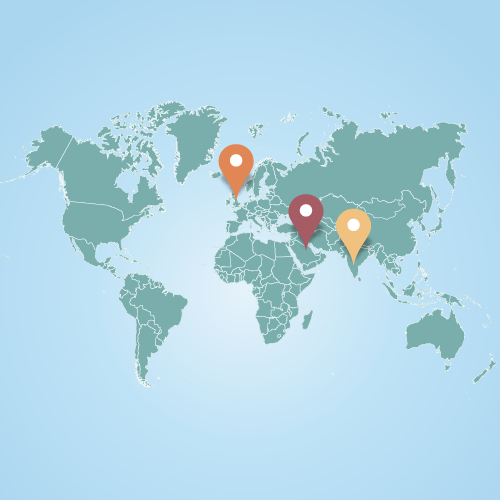
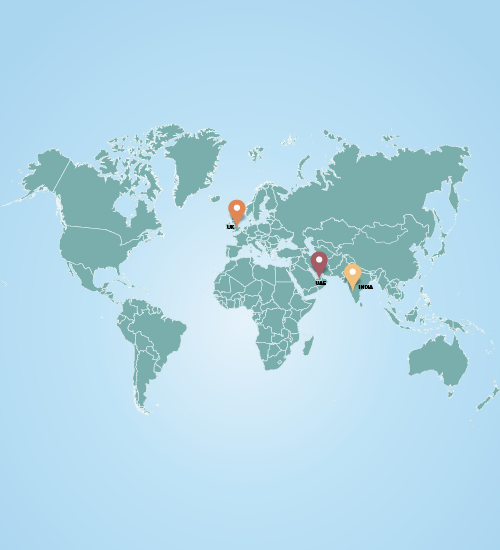
add about at home

diff --git a/src/components/contact-us.jsx b/src/components/contact-us.jsx
@@ -60,7 +60,52 @@ function Contactus() {
           <div>
             <Heading title="Our Locations" />
           </div>
-          <div className="grid grid-cols-1 sm:grid-cols-3 2xl:grid-cols-2 gap-x-5 gap-y-5">
+          <div className="bg-[url('/images/mcubeMap.png')] bg-center bg-cover hidden sm:block">
+            <div className="grid grid-cols-3">
+              <div className="col-span-1">
+                <div className="grid grid-cols-1 gap-y-5">
+                  <div className="bg-white/60 pl-4 w-full py-2 border-l-4 border-secondary my-0 ">
+                    <h3 className="text-primary text-xl font-bold ">Dubai </h3>
+                    <p className="py-2 text-lg font-normal">
+                      MCube Consulting - FZCO
+                      <br /> Building A1, Dubai Digital Park, <br />
+                      Dubai Silicon Oasis, <br />
+                      Dubai - UAE
+                    </p>
+                  </div>
+                  <div className="bg-white/60 pl-4 w-full py-2 border-l-4 border-secondary my-0 ">
+                    <h3 className="text-primary text-xl font-bold ">
+                      United kingdom
+                    </h3>
+                    <p className="py-2 text-lg font-normal">
+                      MCube Consulting Limited
+                      <br /> 141 Fen Street, <br />
+                      Brooklands, <br />
+                      Milton Keynes - UK
+                    </p>
+                  </div>
+                  <div className="bg-white/60 pl-4 w-full py-2 border-l-4 border-secondary my-0 ">
+                    <h3 className="text-primary text-xl font-bold ">India</h3>
+                    <p className="py-2 text-lg font-normal">
+                      Moksha Solutions (Technology Partners)
+                      <br /> Office No. 311, Sai Trade Centre, <br />
+                      Railway Station Road, Aurangabad, <br />
+                      Maharashtra - India
+                    </p>
+                  </div>
+                </div>
+              </div>
+              <div></div>
+            </div>
+          </div>
+          <div className="sm:hidden grid grid-cols-1  gap-x-5 gap-y-5">
+            <div className=" ">
+              <img
+                src="/images/mcubeMap.png"
+                alt=""
+                className="w-full h-auto 2xl:h-auto sm:h-auto"
+              />
+            </div>
             <div className="grid grid-cols-1 gap-y-5">
               <div className="bg-[#eee] pl-4 w-full py-2 border-l-4 border-secondary my-0 ">
                 <h3 className="text-primary text-xl font-bold ">Dubai </h3>
@@ -91,13 +136,6 @@ function Contactus() {
                   Maharashtra - India
                 </p>
               </div>
-            </div>
-            <div className="col-span-2 2xl:col-span-1">
-              <img
-                src="/images/mcubeMap.png"
-                alt=""
-                className="w-full 2xl:h-[500px] sm:h-[600px]"
-              />
             </div>
           </div>
         </div>

diff --git a/src/components/Home/shortabout.jsx b/src/components/Home/shortabout.jsx
@@ -14,10 +14,10 @@ function Shortabout() {
       <div className="pt-20  sm:pt-0  2xl:pt-0">
         <div className="custom-container">
           <Heading title="About Us" />
-          <div className="grid grid-cols-1 lg:grid-cols-2 sm:py-5 sm:pt-5">
+          {/* <div className="grid grid-cols-1 lg:grid-cols-2 sm:py-5 sm:pt-5">
             <SubHeadingLeft title="We Believe in Resource Efficiency" />
-          </div>
-          <div className="grid grid-cols-1 lg:grid-cols-2 sm:gap-x-10 py-5 ">
+          </div> */}
+          <div className="grid grid-cols-1 lg:grid-cols-2 sm:gap-x-10 py-0 ">
             <div className=" order-first sm:order-last">
               <Image
                 src="/images/second.jpg"
@@ -30,18 +30,16 @@ function Shortabout() {
             </div>
             <div className="text-justify ">
               <p className=" pt-4 sm:pt-0 pb-4 md:text-xl ">
-                MCube is a leading digital services and consulting company
-                headquartered in the UAE. We empower our clients across the
-                globe to steer their digital transformation journey. Our
-                approach is to understand your requirements and then come up
-                with solutions that best suit your needs. We specialize in
-                Oracle ERP implementations and have an affiliate company that
-                masters Web Development, and Digital Marketing that brings to
-                market some revolutionary products like the Mobile Attendance
-                system which helps companies track the attendance of a diversely
-                spread workforce.
+                MCube Consulting is a leading IT business consulting firm,
+                dedicated to empowering companies on their digital
+                transformation journeys. Since our inception in 2014, we have
+                been committed to delivering tailored solutions that drive
+                business growth, enhance efficiency, and foster long-term
+                success. With offices in the UK and Dubai Silicon Oasis, and a
+                strategic partnership with India's technology powerhouse,
+                Moksha, we are well-positioned to serve a global clientele.
               </p>
-              <div className="font-medium group flex items-center ">
+              <div className="font-medium group flex items-center mt-2">
                 <Link
                   href="/About-us"
                   className="md:text-xl flex text-white bg-[#004368]  px-3 py-1 shadow drop-shadow items-center  "
@@ -78,7 +76,7 @@ function Shortabout() {
                   </p>
                 </div>
                 <div>
-                  <SubHeadingLeft title="Lift, Shift and Solve" />
+                  <SubHeadingLeft title="Lift, Solve and  Succeed" />
                   <p className="py-4 md:text-xl">
                     With a focus on your operational needs, we prepare a
                     strategic, well-defined methodology to guide all our
